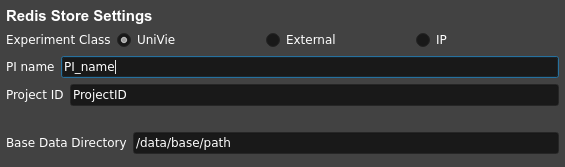
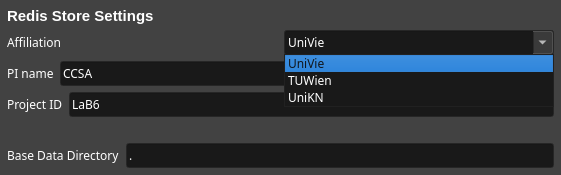
refined path definition

diff --git a/Jungfrau-GUI.rst b/Jungfrau-GUI.rst
@@ -230,8 +230,8 @@ In this section, the user can define the colormap to map scalar data values to c
    :width: 380px
    :align: center
 
-``Experiment Class``
-    Specifies for whom the data is collected (e.g., ``UniVie``, ``External``, ``IP``).
+``Affiliation``
+    Specifies the affiliation of the sample provider. Select from the list or edit by manual.
 
 ``User Name*``
     Enter the PI (Person of Interest).
